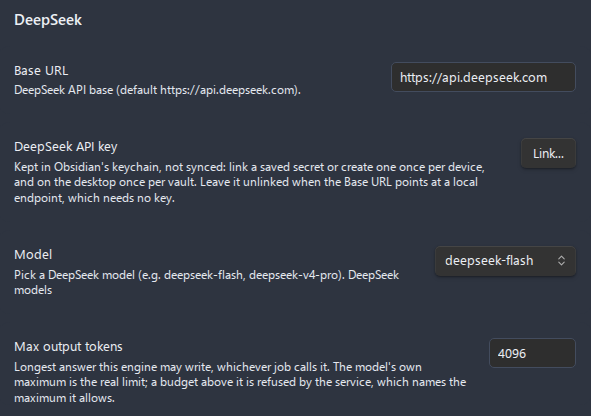
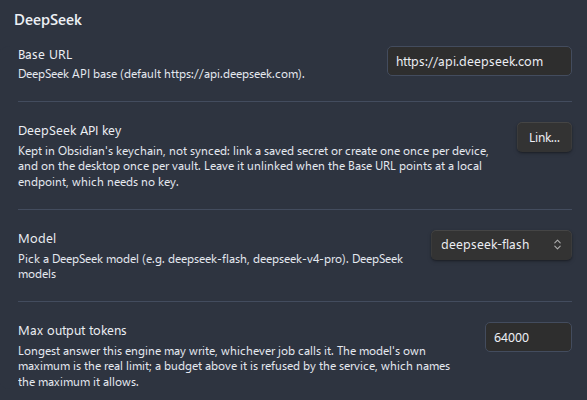
feat(settings): start DeepSeek at 64000 output tokens and say how to size the limit
DeepSeek's models reason before they answer by default, and the reasoning
counts against the same output limit. With the 4096 every engine started
at, a cleanup of a recording longer than a few minutes could not finish:
on November 27, 2026 deepseek-flash spent 17 552 of a 50 000 limit on
reasoning while cleaning up an hour-long lesson of 36 626 tokens, and its
answer stopped at 53:26.

DeepSeek now starts at 64000, the limit DeepSeek itself applies in
thinking mode when none is sent, within its documented range of 1 to
393 216. The other engines keep 4096, because their models' maxima were
not checked and a limit above a model's maximum is refused outright. A
stored value is left as it is.

docs/llm-post-processing.md gains a section on how large to set the limit,
from the measured 600 tokens per minute of a lesson and the reasoning
share, with the notice a cut answer now shows. The DeepSeek engine figure
is rendered again from the settings double with the new default.

diff --git a/src/constants.ts b/src/constants.ts
@@ -1055,6 +1055,17 @@ export const MAX_TRANSCRIBE_CHUNK_MB = 24;
 /** Default maximum output tokens for LLM post-processing. */
 export const DEFAULT_LLM_MAX_TOKENS = 4096;
 
+/**
+ * Default maximum output tokens for DeepSeek. Its models reason before they
+ * answer, by default, and the reasoning counts against the same limit: one
+ * cleanup on `deepseek-flash` spent 17 552 of 50 000 tokens on it. The value
+ * is the one DeepSeek itself applies in thinking mode when no limit is sent
+ * (https://api-docs.deepseek.com/api/create-chat-completion, read on
+ * November 27, 2026: "the default is 8K in non-thinking mode, 64K in thinking
+ * mode"), within its documented range of 1 to 393 216.
+ */
+export const DEFAULT_LLM_DEEPSEEK_MAX_TOKENS = 64_000;
+
 /** Minimum configurable LLM output token budget. */
 export const MIN_LLM_MAX_TOKENS = 512;
 

diff --git a/tests/integration/deepseekVendor.test.ts b/tests/integration/deepseekVendor.test.ts
@@ -120,9 +120,13 @@ describe('DeepSeek LLM vendor', () => {
 		// deepseek-flash at peak is 0.30/1.20 per million tokens, exactly twice
 		// gpt-4o-mini's 0.15/0.60, so with the same transcript and the same
 		// answer ceiling the DeepSeek line has to cost twice the OpenAI one.
+		// The ceilings are set alike here because the two engines no longer
+		// start at the same one, and the estimate caps the answer at it.
 		const base = {
 			transcriptionProvider: TRANSCRIPTION_PROVIDER_IDS.DEEPGRAM,
 			llmPostProcessEnabled: true,
+			llmDeepSeekMaxTokens: 4096,
+			llmOpenAiMaxTokens: 4096,
 		};
 		const deepSeek = buildCostEstimate(
 			mergeSettings({ ...base, llmProvider: LLM_PROVIDER_IDS.DEEPSEEK }),

diff --git a/tests/unit/Settings.test.ts b/tests/unit/Settings.test.ts
@@ -165,6 +165,18 @@ describe('Settings', () => {
 			]);
 		});
 
+		// DeepSeek reasons before it answers and counts that against the
+		// limit, so it starts at the vendor's own default for that mode.
+		it('starts DeepSeek at 64000 output tokens and every other engine at 4096', () => {
+			expect(DEFAULT_SETTINGS).toMatchObject({
+				llmDeepSeekMaxTokens: 64000,
+				llmOpenAiMaxTokens: 4096,
+				llmAnthropicMaxTokens: 4096,
+				geminiMaxTokens: 4096,
+				llmMistralMaxTokens: 4096,
+			});
+		});
+
 		it('ships the language lesson preset, which names no language and is not in use', () => {
 			const preset = DEFAULT_SETTINGS.profiles.find(
 				(profile) => profile.id === LANGUAGE_LESSON_PRESET_ID,

diff --git a/src/settings/settingsSchema.ts b/src/settings/settingsSchema.ts
@@ -37,6 +37,7 @@ import {
 	DEFAULT_LLM_OPENAI_MODEL,
 	DEFAULT_LLM_ANTHROPIC_MODEL,
 	DEFAULT_LLM_MAX_TOKENS,
+	DEFAULT_LLM_DEEPSEEK_MAX_TOKENS,
 	LLM_OPENAI_MODEL_SUGGESTIONS,
 	LLM_ANTHROPIC_MODEL_SUGGESTIONS,
 	DEFAULT_LLM_MISTRAL_MODEL,
@@ -1144,7 +1145,7 @@ export const DEFAULT_SETTINGS: AudioRecorderSettings = {
 	llmAnthropicMaxTokens: DEFAULT_LLM_MAX_TOKENS,
 	geminiMaxTokens: DEFAULT_LLM_MAX_TOKENS,
 	llmMistralMaxTokens: DEFAULT_LLM_MAX_TOKENS,
-	llmDeepSeekMaxTokens: DEFAULT_LLM_MAX_TOKENS,
+	llmDeepSeekMaxTokens: DEFAULT_LLM_DEEPSEEK_MAX_TOKENS,
 	modelSeedGeneration: MODEL_SEED_GENERATION,
 	inputNoiseSuppression: true,
 	inputEchoCancellation: true,

diff --git a/docs/llm-post-processing.md b/docs/llm-post-processing.md
@@ -15,6 +15,7 @@
 - [Shared API keys](#shared-api-keys)
 - [Base URL](#base-url)
 - [Max output tokens](#max-output-tokens)
+    - [How large to set it](#how-large-to-set-it)
 - [Worked examples](#worked-examples)
 - [Behavior and reliability](#behavior-and-reliability)
 - [Settings summary](#settings-summary)
@@ -246,9 +247,9 @@ Leave it at the default unless you are routing requests through an OpenAI-compat
 
 **Max output tokens** caps the length of the LLM's reply. The ceiling belongs to the engine that has to honour it, so it lives on that engine's page under **Engines** and applies to every job calling it rather than to post-processing alone.
 
-| Setting               | Range      | Default | Step |
-| --------------------- | ---------- | ------- | ---- |
-| **Max output tokens** | 512-200000 | 4096    | 1    |
+| Setting               | Range      | Default                      | Step |
+| --------------------- | ---------- | ---------------------------- | ---- |
+| **Max output tokens** | 512-200000 | 4096, and 64000 for DeepSeek | 1    |
 
 Any whole number in that range is accepted, so the budgets a model's own documentation quotes - 8000, 32000, 128000 - can be typed straight in. The upper end of the field is a guard against a typo rather than a claim about any service: how long an answer may be is the model's own limit, it differs between models of one provider, and it moves with every release, so a budget above what your model allows is refused by the service itself, which names the maximum it accepts.
 
@@ -259,6 +260,29 @@ Why it matters: the model stops generating once it hits this budget. If the cap 
 - Higher caps allow longer replies but cost more and take longer.
 - A summary is short, so the default is usually plenty.
 - A full **Clean up** pass returns the whole transcript, so a long recording needs a higher cap (and a model whose own output limit is large enough).
+
+### How large to set it
+
+A **Clean up** or **Translate** pass writes the whole transcript again, so the cap has to cover the transcript itself. A two-speaker lesson of an hour, written into a note with timecode links and speaker names, measured 36 626 tokens on November 27, 2026, which is about 600 tokens per minute of recording. A summary is short and fits the default.
+
+A model that reasons before it answers spends part of the same cap on the reasoning. DeepSeek reasons by default: on that lesson `deepseek-flash` spent 17 552 of a 50 000 cap on reasoning in one run and nearly all of it in another, and both answers were cut short. For such a model allow at least as much again as the transcript needs, which is why DeepSeek starts at 64000, the value DeepSeek itself applies in thinking mode when no limit is sent.
+
+The table below follows from that one measurement, so read it as a starting point:
+
+| Recording, min | Transcript alone, tokens | With a reasoning model, tokens |
+| -------------- | ------------------------ | ------------------------------ |
+| 10             | 6000                     | 12000                          |
+| 30             | 18000                    | 36000                          |
+| 60             | 37000                    | 74000                          |
+| 120            | 73000                    | 146000                         |
+
+When an answer is cut at the cap, the notice names the engine, the cap, how much of it went to reasoning, and where to raise it. For a clean-up or a translation it also says how large the cap has to be for that transcript, counted from the tokens the service reported:
+
+```text
+LLM post-processing failed; saving the raw transcript. DeepSeek stopped at its output token limit of 50000, 17552 of them spent on reasoning, so the answer is incomplete. Raise Max output tokens on the DeepSeek page under Engines, or choose a model with a larger output limit. This task writes the whole transcript again, about 36626 tokens here, so the limit has to be at least 54178.
+```
+
+A cap above what the model allows is refused by the service before anything is generated, and the notice quotes the service's own sentence, which names the maximum it accepts. Lower the cap to that number.
 
 ---
 
@@ -313,10 +337,10 @@ The exact headings come from the model following the summary prompt; the `### Su
 
 ## Behavior and reliability
 
-- **Best-effort.** Post-processing never throws away a transcript you already paid to produce. If the LLM call fails (bad key, network error, timeout, or a blocked/empty response), the plugin keeps the **raw transcript**, shows a notice (`LLM post-processing failed; saving the raw transcript.`), and continues. The transcript is still saved.
+- **Best-effort.** Post-processing never throws away a transcript you already paid to produce. If the LLM call fails (bad key, network error, timeout, or a blocked/empty response), the plugin keeps the **raw transcript**, shows a notice (`LLM post-processing failed; saving the raw transcript.`, followed by the reason in the words of the service or the plugin), and continues. The transcript is still saved.
 - **Request timeout.** Each LLM request is bounded by a fixed 5-minute timeout (longer than the transcription floor, because cleaning or summarizing a long transcript can legitimately take minutes). This is separate from the transcription **Request timeout** setting.
 - **Cancellation.** Cancel reaches the LLM request itself, so pressing it during post-processing stops the run at once instead of waiting out the call's 5-minute timeout. The call already sent cannot be stopped mid-flight, so it finishes in the background, its answer is dropped, and the provider may still bill it. A run stopped that way is reported as the cancellation it is and writes nothing, rather than being reported as a failed pass that falls back to the raw transcript. The same signal reaches every other model call the run makes, including the [advanced context agents](transcription.md#advanced-two-pass-transcription) and [auto chapters](transcription.md#auto-chapters). Closing the dialog cancels the job exactly as the button does, while [Minimize](transcription.md#progress-and-minimizing) keeps it running in the status bar.
-- **Token truncation is surfaced.** On every vendor, a response cut off by the output-token limit (or, on Gemini, blocked by a safety policy) fails the post-processing step loudly rather than silently replacing the transcript with a partial result - so you fall back to the raw transcript instead of getting a half-cleaned one. Raise **Max output tokens** or shorten the input if this happens.
+- **Token truncation is surfaced.** On every vendor, a response cut off by the output-token limit (or, on Gemini, blocked by a safety policy) fails the post-processing step loudly rather than silently replacing the transcript with a partial result - so you fall back to the raw transcript instead of getting a half-cleaned one. The notice says how large the cap has to be, as [How large to set it](#how-large-to-set-it) describes.
 - **Incomplete-transcription warnings survive.** If part of a long recording could not be transcribed, the plugin prepends its warning callout **after** post-processing, so a cleanup/custom pass that replaces the body cannot strip it.
 
 ---
@@ -338,13 +362,13 @@ All controls live under **Settings > Advanced Audio Recorder > Transcription > L
 
 The rows that describe the service itself sit on its page under **Engines**, shared by every job that calls it:
 
-| Setting               | What it does                                                                                                                        | Default          |
-| --------------------- | ----------------------------------------------------------------------------------------------------------------------------------- | ---------------- |
-| **Base URL**          | API endpoint for that provider.                                                                                                     | Provider default |
-| **API key**           | Entered once per provider, so a service that also transcribes reuses it.                                                            | -                |
-| **Model**             | Dropdown over the saved ids, with the provider's catalogue link at the end of its description.                                      | See table above  |
-| **Model catalogue**   | The saved ids themselves, where one is added, removed, or put to work.                                                              | Seeded list      |
-| **Max output tokens** | Upper bound on the reply length (truncation guard). Any whole number from 512 to 200000; the model's own maximum is the real limit. | 4096             |
+| Setting               | What it does                                                                                                                        | Default                      |
+| --------------------- | ----------------------------------------------------------------------------------------------------------------------------------- | ---------------------------- |
+| **Base URL**          | API endpoint for that provider.                                                                                                     | Provider default             |
+| **API key**           | Entered once per provider, so a service that also transcribes reuses it.                                                            | -                            |
+| **Model**             | Dropdown over the saved ids, with the provider's catalogue link at the end of its description.                                      | See table above              |
+| **Model catalogue**   | The saved ids themselves, where one is added, removed, or put to work.                                                              | Seeded list                  |
+| **Max output tokens** | Upper bound on the reply length (truncation guard). Any whole number from 512 to 200000; the model's own maximum is the real limit. | 4096, and 64000 for DeepSeek |
 
 ---
 

diff --git a/docs/settings-reference.md b/docs/settings-reference.md
@@ -309,7 +309,7 @@ The page the post-processing prompts, the chapter titles, and the two-pass conte
 | **DeepSeek API key**  | Links the secret in Obsidian's keychain that holds the key. Only the secret's ID is saved in `data.json`; the key stays on this device and is not synced. Read by this engine only.                                                 | Keychain secret                                             | - (empty)                  |
 | **Model**             | Model the engine runs on, picked from the saved ids. The estimate prices it at the weekday peak rate, so an off-peak run costs about half.                                                                                          | Editable list (seeded: `deepseek-flash`, `deepseek-v4-pro`) | `deepseek-flash`           |
 | **Model catalogue**   | The page holding the ids the picker above offers. Its entry reports how many are saved, and the page carries a filter, a delete button on each row, and an add button that asks for an id. Tapping a row also puts that id to work. | Page of saved ids                                           | Seeded list                |
-| **Max output tokens** | Longest answer this engine may write, whichever job calls it. The model's own maximum is the real limit, so a larger budget is refused by the service rather than by this field.                                                    | Number field, any whole number from 512 to 200000           | 4096                       |
+| **Max output tokens** | Longest answer this engine may write, whichever job calls it. The model's own maximum is the real limit, so a larger budget is refused by the service rather than by this field.                                                    | Number field, any whole number from 512 to 200000           | 64000                      |
 
 ### Engine: OpenAI
 
